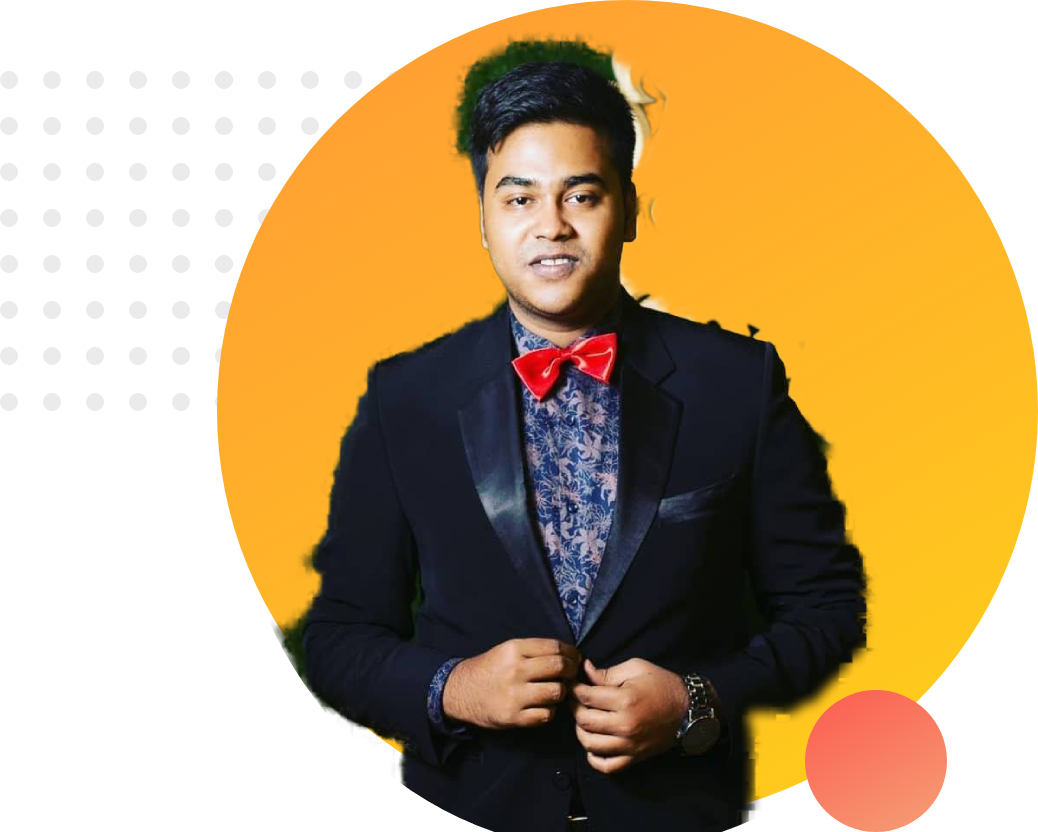
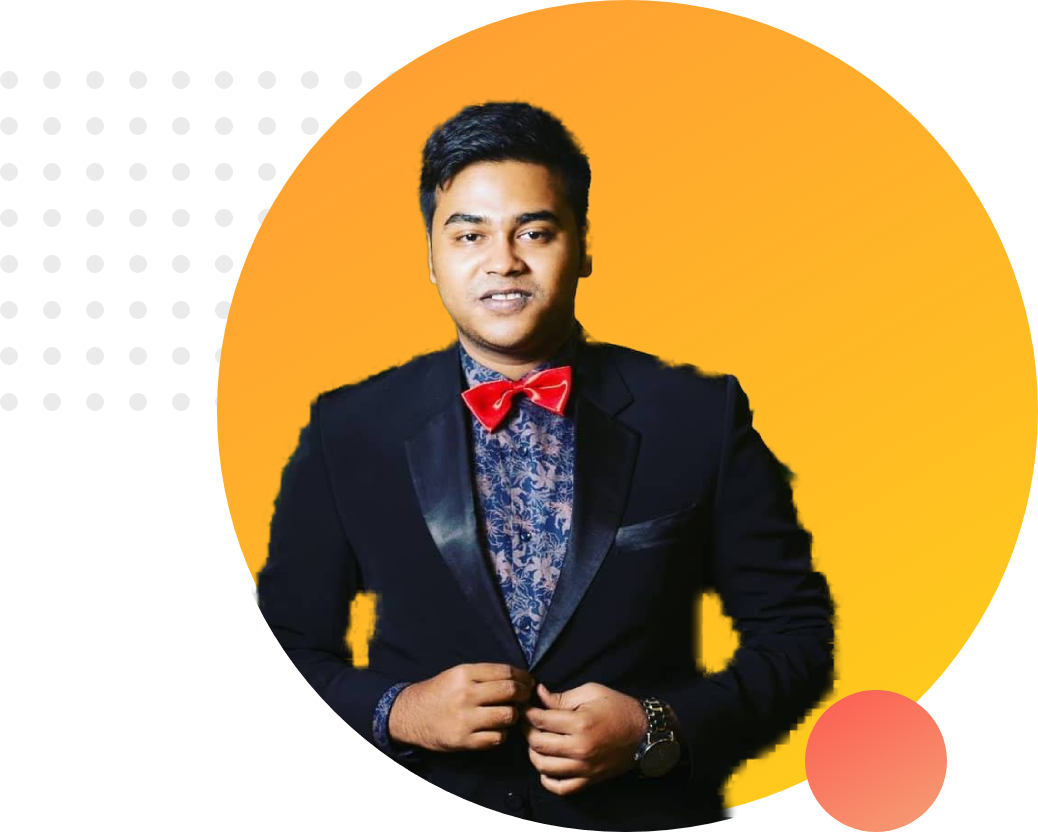
Finished my first exer website

Changed region(s): [[0.2466, 0.0312, 0.8632, 1.0]]

diff --git a/index.html b/index.html
@@ -10,17 +10,45 @@
     <link rel="stylesheet" href="style.css">
 </head>
 <body>
-    <section>
+    <section class="top-banner">
         <div class="half-width">
         <h1>Welcome To</h1>
-        <h1><span class="name-highlight">Antu</span> World</h1>
-        <h3>World-class professional web dev</h3>
-        <p>I know HTML, CSS, Javascript. Also, I'm working with React.Js. I have also excellent database skill & I also know Java programming language. I am ready to step in the professional world.</p>
+        <h1><span class="orange-highlight">Antu</span> World</h1>
+        <h3>World-class professional web developer</h3>
+        <p>I know HTML, CSS, Javascript. Also, I'm working with React.Js. I have excellent database skills & I also know Java programming language. I am ready to step in the professional world.</p>
+        <a class="link-button" target="_blank" href="https://www.linkedin.com/in/md-hazzaz-rahman-antu-74b2181b6/">HIRE ME</a>
         </div>
         <div class="half-width">
             <img src="images/profile.png" alt="">
         </div>
     </section>
+    <section class="dream-area">
+        <div class="half-width">
+            <img src="images/profile2.png" alt="">
+        </div>
+        <div class="half-width">
+            <h2>Dream Big</h2>
+            <h3>Become World's No. 1 Developer</h3>
+            <p>I want to make a difference in this world. I believe in changes. I hope one day my work will change the world. I wish to be remembered by my work & lead a happy, healthy & honest life.</p>
+            <a class="link-button" target="_blank" href="https://novoresume.com/editor/resume/67d223a0-1938-11eb-98cc-f7b8c2f9ecf4">DOWNLOAD RESUME</a>
+        </div>
+    </section>
+    <section class="experience-area">
+        <h2>Experiences</h2>
+        <div id="full-stack" class="half-width single-experience">
+            <h2>Full Stack Web Developer</h2>
+            <h3 class="orange-highlight">2021-Present | Pro Level Developer</h3>
+            <p>I am the master of HTML, CSS and Javascript. I know everything needed to make a website function, efficient. I didn't stop with the web. I went beyond with most popular Javascript framework called Vue JS. I even know the deployment, server and security. I will give you 100% web solution.</p>
+        </div>
+        <div id="baby-web" class="half-width single-experience">
+            <h2>Baby Web Developer</h2>
+            <h3 class="orange-highlight">2020-2021 | Programming Hero Learner</h3>
+            <p>They didn't offer me a job. But I am a self-employed individual. I made their website and showed it to them. They liked it. And uploaded the content. It was fun working at Programming Hero.</p>
+        </div>
+    </section>
+    <footer>
+        <p> © Md Hazzaz Rahman Antu 2021, all rights reserved.</p>
+    </footer>
     
 </body>
 </html>

diff --git a/style.css b/style.css
@@ -1,9 +1,17 @@
 body{
-    font-family: 'Poppins', sans-serif;}
+    font-family: 'Poppins', sans-serif;
+    margin: 0;
+}
 h1{
+    font-size: 50px;
+}
+h2{
     font-size: 40px;
 }
-.name-highlight{
+p{
+    color: dimgray;
+}
+.orange-highlight{
     color: orange;
 }
 .half-width{
@@ -14,4 +22,52 @@ h1{
 }
 .half-width img{
     width: 100%;
+}
+.top-banner{
+    
+    background-image: url("images/top-banner.png");
+    background-repeat: no-repeat;
+}
+section{
+    height: 500px;
+    padding-bottom: 100px;
+}
+.link-button{
+    text-decoration: none;
+    background-image: linear-gradient(45deg, LightSalmon, Tomato);
+    padding: 10px 20px;
+    border-radius: 10px;
+    color: white;
+    font-weight: bold;
+}
+.dream-area{
+    background-image: url("images/dream-bg.png");
+    background-repeat: no-repeat;
+    background-position: right;
+}
+.single-experience{
+    box-shadow: 10px 10px 40px gray;
+    border-radius: 5px;
+    height: 80%;
+    background-color: white;
+
+}
+.experience-area{
+    background-image: url(images/exp-bg.png);
+    background-repeat: no-repeat;
+    background-position: left;
+}
+#full-stack{
+    border-left: 7px solid;
+    border-image: linear-gradient(180deg, LightSalmon, tomato);
+    border-image-slice: 1;
+}
+#baby-web{
+    border-left: 7px solid;
+    border-image: linear-gradient(180deg, blue, cyan);
+    border-image-slice: 1;
+}
+footer p{
+    text-align: center;
+    font-size: 15px;
 }
